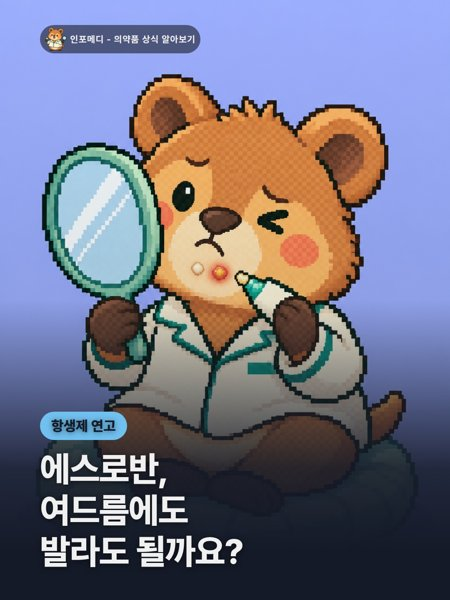
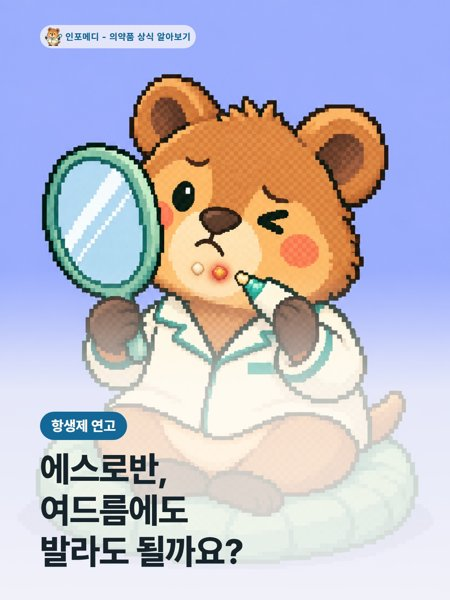
links

diff --git a/index.html b/index.html
@@ -34,7 +34,7 @@
 <section class="section">
 <h2>의약품 정보 <small id="count"></small></h2>
 <div class="grid" id="list">
-<a class="item" href="https://blog.naver.com/info_medi_/224422848846"><img src="c/에스로반-white.jpg" alt="" loading="lazy">
+<a class="item" href="https://blog.naver.com/info_medi_/224422848846"><img src="c/에스로반.jpg" alt="" loading="lazy">
 <span><b>에스로반, 여드름에도 발라도 될까요?</b><small><time datetime="2026-10-13 12:08"></time></small></span></a>
 <a class="item" href="https://blog.naver.com/info_medi_/224428925775"><img src="c/쎄로테정.jpg" alt="" loading="lazy">
 <span><b>쎄로테정, 먹으면 많이 졸린 약일까요?</b><small><time datetime="2026-10-12 19:39"></time></small></span></a>
